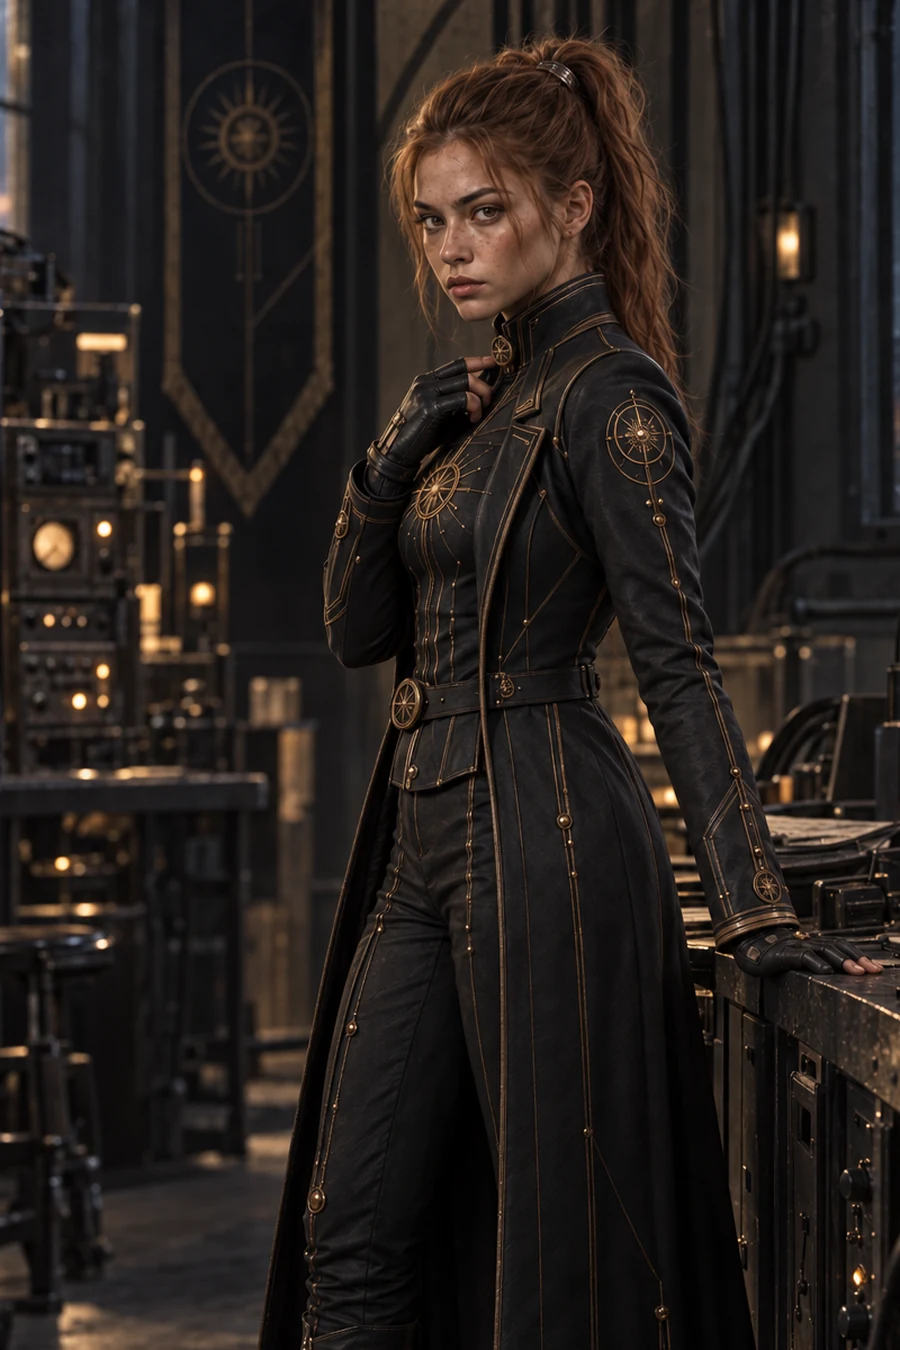
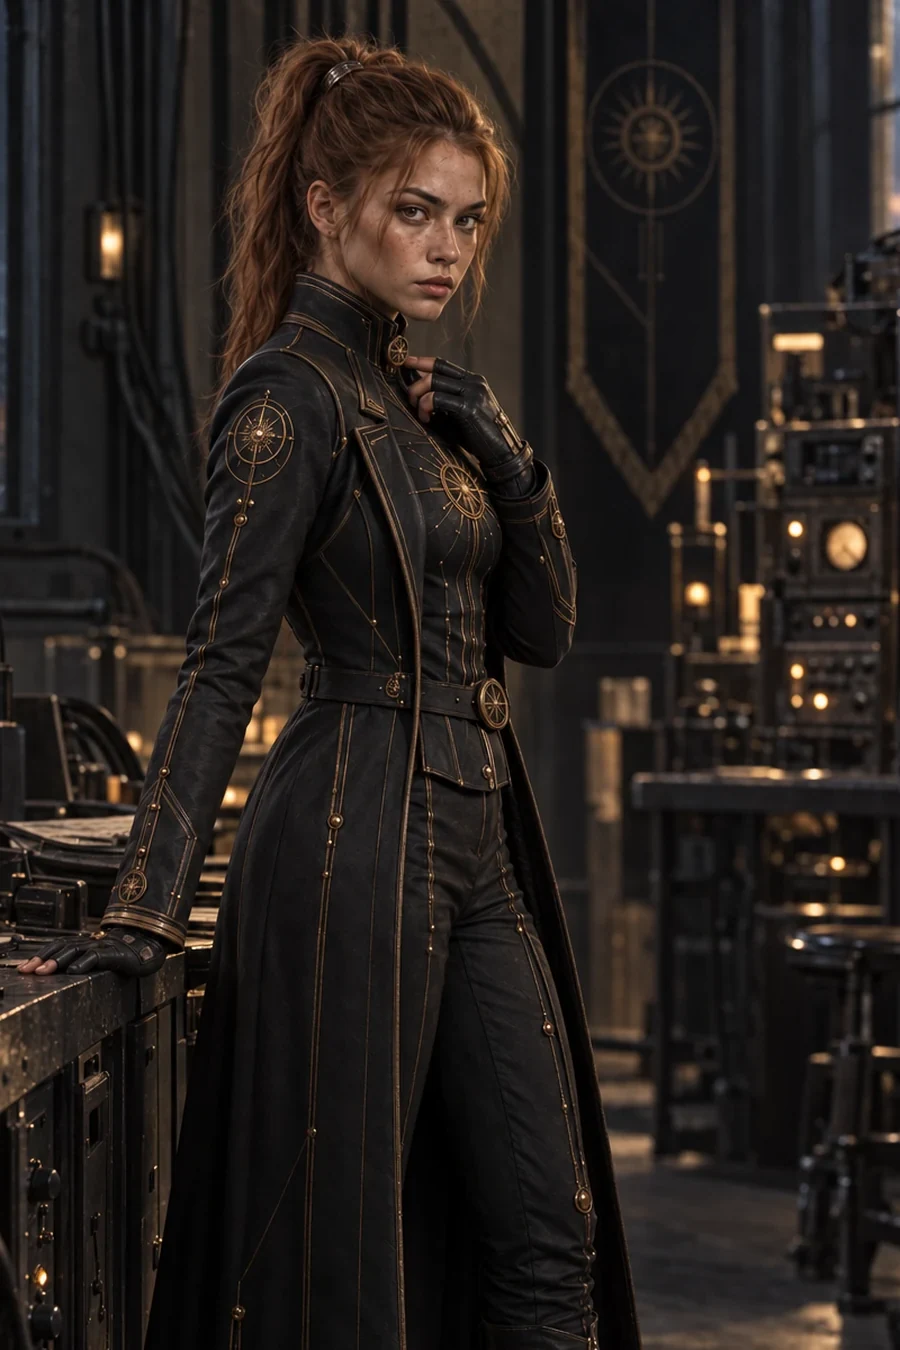
Nuevo orden de secciones y Vera espejada
Orden que fijó Escandar. Entran dos secciones que no son casas sino los dos
bandos del final, y por eso se llevan tarjetas de varias anteriores:

- La noche eterna: Scar, los hermanos Soryn y Averian Vaelor.
- El día eterno: los Dientes de Ceniza, Ilyra, Maelis y Las dos madres.

Las secciones "Los hermanos Soryn" y "Dientes de Ceniza" desaparecen al vaciarse.
Draevin, Veyron, Veyra y Korr no estaban en la lista pero tienen 9 tarjetas entre
las cuatro, así que se mantienen tras Sareth.

Vera Helion va espejada para que no se parezca tanto al resto.

diff --git a/content.js b/content.js
@@ -20,23 +20,23 @@ window.BOOK_DATA = {
   castSections: [
     { id: "principales", name: "Personajes principales" },
     { id: "cam17", name: "CAM-17" },
-    { id: "gelidos", name: "Gélidos" },
     { id: "aurelian", name: "Aurelian", realm: "Fulgur" },
-    { id: "draevin", name: "Draevin", realm: "Fulgur" },
+    { id: "gelidos", name: "Gélidos" },
     { id: "sevrin", name: "Sevrin", realm: "Fulgur" },
     { id: "helion", name: "Helion", realm: "Fulgur" },
-    { id: "veyron", name: "Veyron", realm: "Fulgur" },
     { id: "corven", name: "Corven", realm: "Fulgur" },
     { id: "ordel", name: "Ordel", realm: "Fulgur" },
-    { id: "veyra", name: "Veyra", realm: "Gélidos" },
-    { id: "korr", name: "Korr", realm: "Gélidos" },
     { id: "solenne", name: "Solenne", realm: "Fulgur" },
-    { id: "fulgur", name: "Fulgur" },
     { id: "ardent", name: "Ardent", realm: "Assum" },
     { id: "sareth", name: "Sareth", realm: "Assum" },
-    { id: "dientes", name: "Dientes de Ceniza", realm: "Assum" },
-    { id: "assum", name: "Assum" },
-    { id: "eternum", name: "Los hermanos Soryn", realm: "Eternum" }
+    { id: "draevin", name: "Draevin", realm: "Fulgur" },
+    { id: "veyron", name: "Veyron", realm: "Fulgur" },
+    { id: "veyra", name: "Veyra", realm: "Gélidos" },
+    { id: "korr", name: "Korr", realm: "Gélidos" },
+    { id: "noche", name: "La noche eterna" },
+    { id: "dia", name: "El día eterno" },
+    { id: "fulgur", name: "Fulgur" },
+    { id: "assum", name: "Assum" }
   ],
   // Retratos de grupo: una sola imagen ancha que se abre en grande, con los
   // nombres al pie. Mismo bloqueo por capitulo que los retratos sueltos.
@@ -45,9 +45,9 @@ window.BOOK_DATA = {
       caption: "Odran Corven · Levik Corven" },
     { id: "solenneh", name: "Rhoven y Orielle Solenne", file: "assets/personajes/rhoven-orielle.webp", w: 1800, h: 1200, unlock: 29, section: "solenne",
       caption: "Rhoven Solenne · Orielle Solenne" },
-    { id: "madres", name: "Las dos madres", file: "assets/personajes/las-dos-madres.webp", w: 1600, h: 1431, unlock: 36, section: "cam17",
+    { id: "madres", name: "Las dos madres", file: "assets/personajes/las-dos-madres.webp", w: 1600, h: 1431, unlock: 36, section: "dia",
       caption: "Maelis Varen · Ilyra Aurelian" },
-    { id: "dientes", name: "Dientes de Ceniza", file: "assets/personajes/dientes-de-ceniza.webp", w: 2400, h: 1200, unlock: 30, section: "dientes",
+    { id: "dientes", name: "Dientes de Ceniza", file: "assets/personajes/dientes-de-ceniza.webp", w: 2400, h: 1200, unlock: 30, section: "dia",
       caption: "Hal'Verkan · Dra'Vik · Rask · Bryn'Veth · Tor'Vaer · Yorn'Taz" }
   ],
   characters: [
@@ -66,14 +66,14 @@ window.BOOK_DATA = {
     { id: "vera", name: "Vera Helion", file: "assets/personajes/vera-helion.webp", w: 900, h: 1350, unlock: 4, section: "cam17" },
     { id: "nila", name: "Nila Sorn", file: "assets/personajes/nila-sorn.webp", w: 900, h: 1350, unlock: 4, section: "cam17" },
     { id: "iris", name: "Iris Veyra", file: "assets/personajes/iris-veyra.webp", w: 900, h: 1350, unlock: 4, section: "cam17" },
-    { id: "scar", name: "Scar", file: "assets/personajes/scar.webp", w: 900, h: 1350, unlock: 16, section: "principales" },
+    { id: "scar", name: "Scar", file: "assets/personajes/scar.webp", w: 900, h: 1350, unlock: 16, section: "noche" },
     { id: "arlette", name: "Arlette Voss", file: "assets/personajes/arlette-voss.webp", w: 900, h: 1350, unlock: 26, section: "cam17" },
-    { id: "maelis", name: "Maelis Varen", file: "assets/personajes/maelis-varen.webp", w: 900, h: 1350, unlock: 36, section: "cam17" },
+    { id: "maelis", name: "Maelis Varen", file: "assets/personajes/maelis-varen.webp", w: 900, h: 1350, unlock: 36, section: "dia" },
     { id: "lucan", name: "Lucan Aurelian", file: "assets/personajes/lucan-aurelian.webp", w: 900, h: 1350, unlock: 1, section: "aurelian" },
     { id: "adrian", name: "Adrian Aurelian", file: "assets/personajes/adrian-aurelian.webp", w: 900, h: 1350, unlock: 4, section: "aurelian" },
     { id: "mara", name: "Mara Aurelian", file: "assets/personajes/mara-aurelian.webp", w: 900, h: 1350, unlock: 14, section: "aurelian" },
     { id: "edria", name: "Edria Aurelian", file: "assets/personajes/edria-aurelian.webp", w: 900, h: 1350, unlock: 13, section: "aurelian" },
-    { id: "ilyra", name: "Ilyra Aurelian", file: "assets/personajes/ilyra-aurelian.webp", w: 900, h: 1350, unlock: 36, section: "aurelian" },
+    { id: "ilyra", name: "Ilyra Aurelian", file: "assets/personajes/ilyra-aurelian.webp", w: 900, h: 1350, unlock: 36, section: "dia" },
     { id: "rivan", name: "Rivan Aurelian", file: "assets/personajes/rivan-aurelian.webp", w: 900, h: 1350, unlock: 14, section: "aurelian" },
     { id: "tavian", name: "Tavian Aurelian", file: "assets/personajes/tavian-aurelian.webp", w: 900, h: 1350, unlock: 14, section: "aurelian" },
     { id: "aedra", name: "Aedra Draevin", file: "assets/personajes/aedra-draevin.webp", w: 900, h: 1350, unlock: 20, section: "draevin" },
@@ -88,7 +88,7 @@ window.BOOK_DATA = {
     { id: "coris", name: "Coris", file: "assets/personajes/coris.webp", w: 900, h: 1350, unlock: 12, section: "korr" },
     { id: "nhalia", name: "Nhalia Veyra", file: "assets/personajes/nhalia-veyra.webp", w: 900, h: 1350, unlock: 13, section: "veyra" },
     { id: "loras", name: "Loras Corven", file: "assets/personajes/loras-corven.webp", w: 900, h: 1350, unlock: 12, section: "corven" },
-    { id: "averian", name: "Averian Vaelor", file: "assets/personajes/averian-vaelor.webp", w: 900, h: 1350, unlock: 23, section: "fulgur" },
+    { id: "averian", name: "Averian Vaelor", file: "assets/personajes/averian-vaelor.webp", w: 900, h: 1350, unlock: 23, section: "noche" },
     { id: "zane", name: "Zane Veyron", file: "assets/personajes/zane-veyron.webp", w: 900, h: 1350, unlock: 13, section: "veyron" },
     { id: "ysven", name: "Ysven Veyron", file: "assets/personajes/ysven-veyron.webp", w: 900, h: 1350, unlock: 13, section: "veyron" },
     { id: "solvar", name: "Solvar Helion", file: "assets/personajes/solvar-helion.webp", w: 900, h: 1350, unlock: 13, section: "helion" },
@@ -96,17 +96,17 @@ window.BOOK_DATA = {
     { id: "zaira", name: "Zaira", file: "assets/personajes/zaira.webp", w: 900, h: 1349, unlock: 20, section: "draevin" },
     { id: "nara", name: "Nara", file: "assets/personajes/nara.webp", w: 900, h: 1350, unlock: 24, section: "aurelian" },
     { id: "calev", name: "Calev", file: "assets/personajes/calev.webp", w: 900, h: 1350, unlock: 24, section: "aurelian" },
-    { id: "aldren", name: "Aldren Soryn", epithet: "El Heredero de la Luna Bélica", file: "assets/personajes/aldren-soryn.webp", w: 900, h: 1350, unlock: 23, section: "eternum" },
-    { id: "yseva", name: "Yseva Soryn", epithet: "La Astrónoma de la Guerra", file: "assets/personajes/yseva-soryn.webp", w: 900, h: 1350, unlock: 31, section: "eternum" },
-    { id: "hastir", name: "Hastir Soryn", epithet: "La Garra Carmesí", file: "assets/personajes/hastir-soryn.webp", w: 900, h: 1350, unlock: 31, section: "eternum" },
+    { id: "aldren", name: "Aldren Soryn", epithet: "El Heredero de la Luna Bélica", file: "assets/personajes/aldren-soryn.webp", w: 900, h: 1350, unlock: 23, section: "noche" },
+    { id: "yseva", name: "Yseva Soryn", epithet: "La Astrónoma de la Guerra", file: "assets/personajes/yseva-soryn.webp", w: 900, h: 1350, unlock: 31, section: "noche" },
+    { id: "hastir", name: "Hastir Soryn", epithet: "La Garra Carmesí", file: "assets/personajes/hastir-soryn.webp", w: 900, h: 1350, unlock: 31, section: "noche" },
     { id: "yvara", name: "Yvara", file: "assets/personajes/yvara.webp", w: 900, h: 1350, unlock: 12, section: "sareth" },
     { id: "kaedrahn", name: "Kaedrahn", file: "assets/personajes/kaedrahn.webp", w: 900, h: 1350, unlock: 12, section: "ardent" },
-    { id: "rask", name: "Rask", file: "assets/personajes/rask.webp", w: 900, h: 1350, unlock: 25, section: "dientes" },
-    { id: "hal", name: "Hal'Verkan", file: "assets/personajes/hal-verkan.webp", w: 900, h: 1350, unlock: 30, section: "dientes" },
-    { id: "dravik", name: "Dra'Vik", file: "assets/personajes/dravik.webp", w: 900, h: 1350, unlock: 30, section: "dientes" },
-    { id: "bryn", name: "Bryn'Veth", file: "assets/personajes/bryn-veth.webp", w: 900, h: 1350, unlock: 30, section: "dientes" },
-    { id: "tor", name: "Tor'Vaer", file: "assets/personajes/tor-vaer.webp", w: 900, h: 1350, unlock: 30, section: "dientes" },
-    { id: "yorn", name: "Yorn'Taz", file: "assets/personajes/yorn-taz.webp", w: 900, h: 1350, unlock: 30, section: "dientes" }
+    { id: "rask", name: "Rask", file: "assets/personajes/rask.webp", w: 900, h: 1350, unlock: 25, section: "dia" },
+    { id: "hal", name: "Hal'Verkan", file: "assets/personajes/hal-verkan.webp", w: 900, h: 1350, unlock: 30, section: "dia" },
+    { id: "dravik", name: "Dra'Vik", file: "assets/personajes/dravik.webp", w: 900, h: 1350, unlock: 30, section: "dia" },
+    { id: "bryn", name: "Bryn'Veth", file: "assets/personajes/bryn-veth.webp", w: 900, h: 1350, unlock: 30, section: "dia" },
+    { id: "tor", name: "Tor'Vaer", file: "assets/personajes/tor-vaer.webp", w: 900, h: 1350, unlock: 30, section: "dia" },
+    { id: "yorn", name: "Yorn'Taz", file: "assets/personajes/yorn-taz.webp", w: 900, h: 1350, unlock: 30, section: "dia" }
   ],
   // Escenas en bucle. Son mp4 MUDOS, no gif: el mismo clip en gif pesaba
   // 30 MB y en mp4 1,8. Se pausan mientras suena el audiolibro.

diff --git a/sw.js b/sw.js
@@ -1,6 +1,6 @@
 // REGLA (heredada del Libro I): todo cambio a index.html, styles.css, content.js,
 // app.js o nieve.js exige subir SHELL_CACHE antes de publicar.
-const SHELL_CACHE = "el-ciclo-inmovil-libro2-shell-v58";
+const SHELL_CACHE = "el-ciclo-inmovil-libro2-shell-v59";
 // Mismo nombre que AUDIO_CACHE en app.js ("Guardar sin conexión"). Si no
 // coinciden, el activate de abajo borra los capitulos guardados. No subirlo sin
 // motivo: vacia lo que cada oyente guardo.
